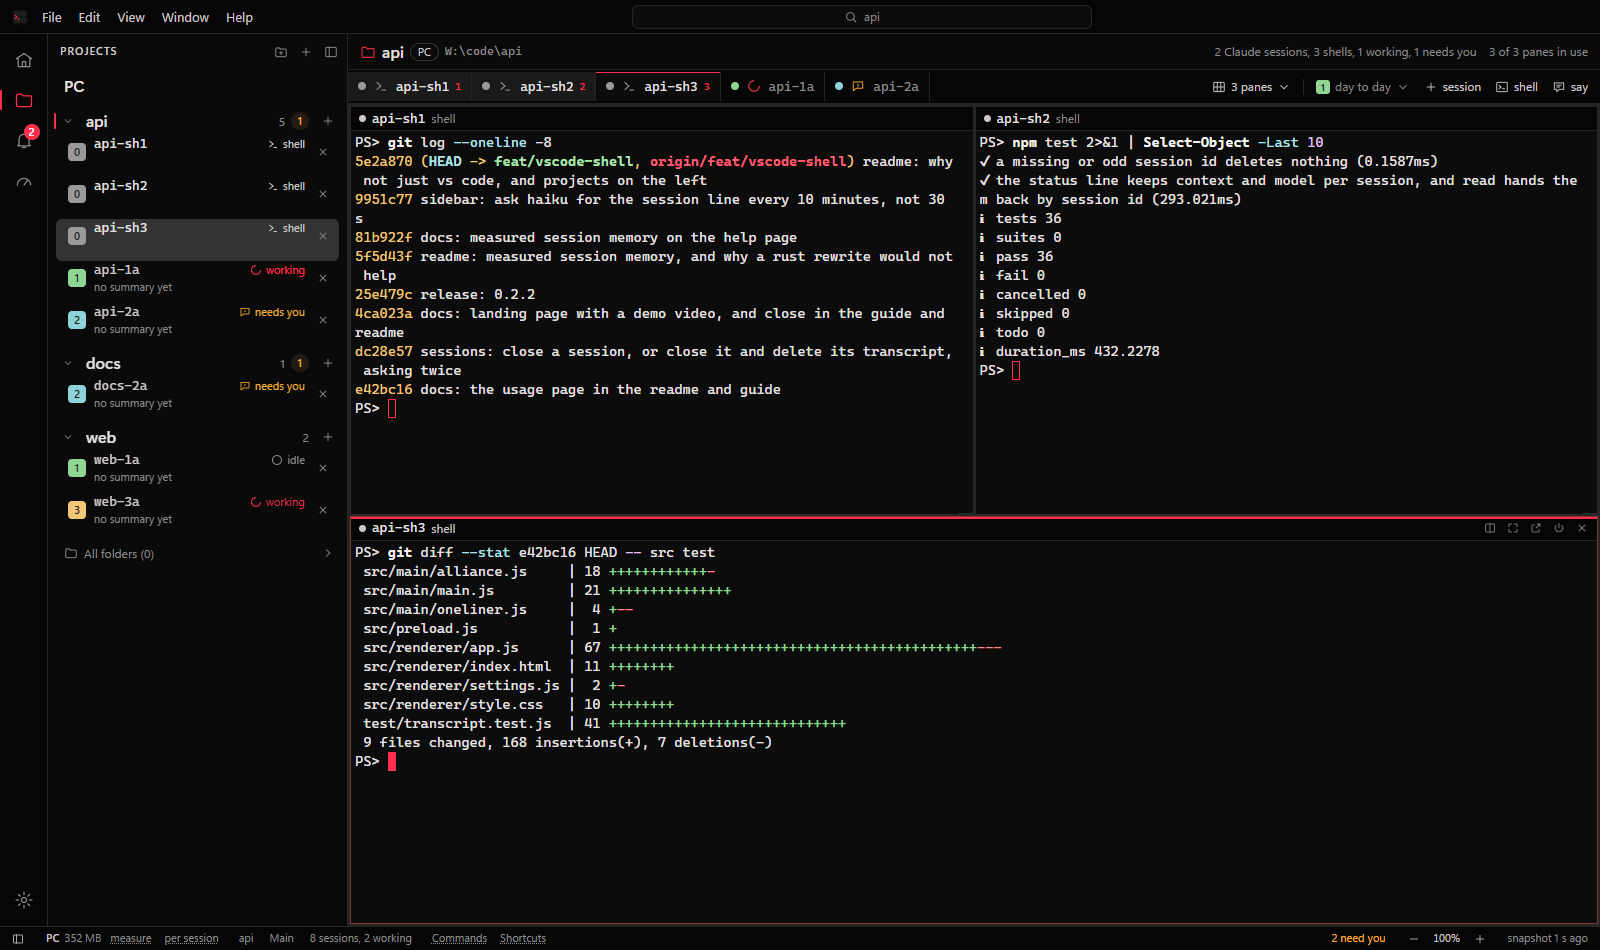
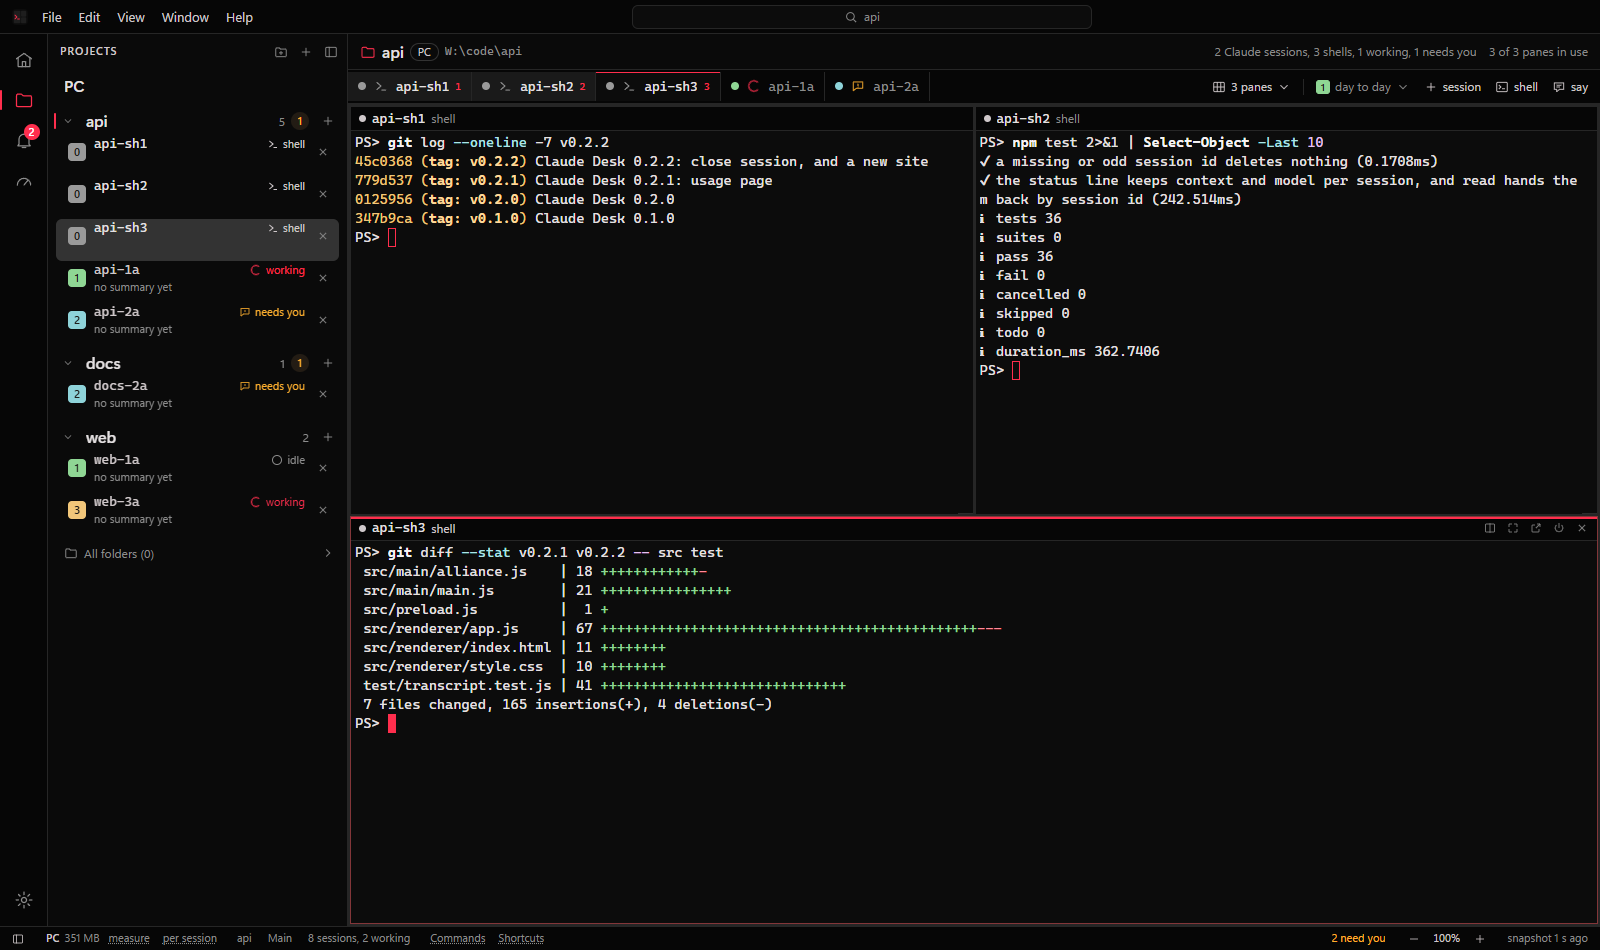
readme: a 27 s clip at the top, and a note on the desktop app
The README opened on a still that showed the private branch name and private commit hashes
in its shell panes, and it never mentioned Anthropic's own desktop app. The top is now a
27 s GIF (three accounts, a session turning to needs you, the Usage page with one limit
climbing), the still is re-taken with the shells in this repo, and the VS Code section says
when to use the desktop app instead.

diff --git a/README.md b/README.md
@@ -20,7 +20,7 @@ to different Claude accounts. Desk starts, shows, hides, stops and resumes them.
 wrap the chat, edit your files or show git. The terminal is Claude Code itself; Desk puts a
 frame around it.
 
-![Three projects in the sidebar: two sessions working, two that need you, and api open in three panes](docs/img/overview-1600.png)
+![Three accounts across three projects: a session turns to needs you, then the Usage page shows each account's limits and one of them climbing](docs/img/demo-readme.gif)
 
 Claude Desk is an independent project. It is not made by or affiliated with Anthropic.
 
@@ -53,10 +53,18 @@ is waiting. The VS Code column comes from the extension's documentation
 ([code.claude.com/docs/en/vs-code](https://code.claude.com/docs/en/vs-code)), read on
 2026-11-08; the extension changes often, so check it there.
 
+Anthropic also has a Claude Code desktop app for Windows, macOS and Linux (beta), with a session
+sidebar, SSH sessions and one usage ring for the account you are signed in to. Its documentation
+([code.claude.com/docs/en/desktop](https://code.claude.com/docs/en/desktop), read on 2026-11-08)
+does not mention a second account. If you use one account and want diffs beside the chat, use
+that app. Desk is for running several accounts at once and watching their limits side by side.
+
 ## Projects on the left
 
 The sidebar holds every project you work in, each as its own section, so one window covers all
 of them.
+
+![Three projects in the sidebar: two sessions working, two that need you, and api open in three panes](docs/img/overview-1600.png)
 
 - **Where projects come from.** Desk finds your projects folder (`~\Projects` and a few usual
   names, or `DESK_PROJECTS`). A project gets a section once it has a session or you add it. **All folders**
